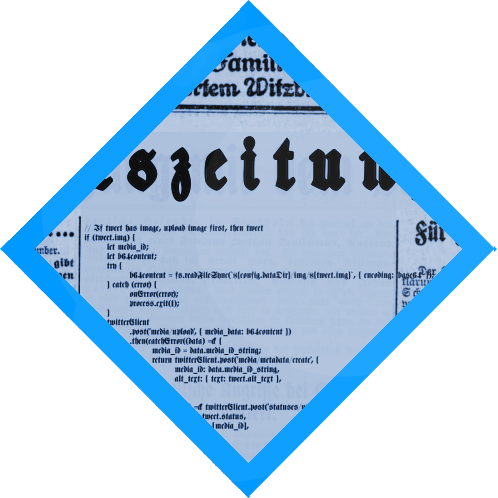
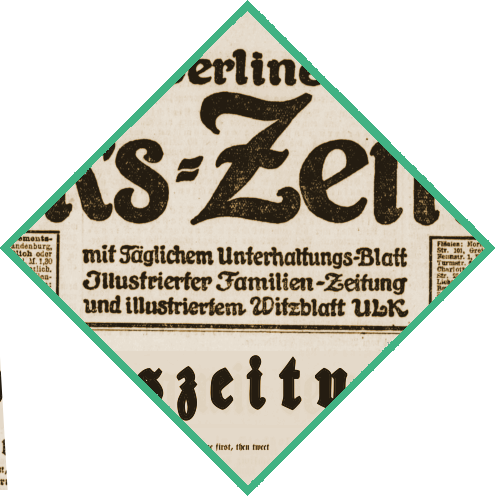
more tiles for Projekte

diff --git a/_projects/2017/altpapier.md b/_projects/2017/altpapier.md
@@ -39,11 +39,16 @@ data:
   - "Staatsbibliothek zu Berlin – Preußischer Kulturbesitz: Berliner Volks-Zeitung (BVZ)"
 team:
   -
+    name: "Team"
+    contact:
+     mail: "mailto:kontakt@altpapier-app.de"
+  -
     name: "Maria Becker"
     contact:
-     mail: "mailto:maria@lilax-solutions.de"
+     mail: "mailto:altpapier@mariabecker.de" 
      twitter: “@meckerbecker”
      github: “https://github.com/mariabecker”
+
   -
     name: "Maike Orlikowski"
     contact:

diff --git a/_projects/2017/haxorpoda.md b/_projects/2017/haxorpoda.md
@@ -4,9 +4,9 @@ layout: project
 year: 2017
 isFirst: false
 "name": "Haxorpoda Collective: “Bug-cruncher”, “Bug-feed”, “wOgus”"
-tile: "/img/projekte-tiles/2017/haxorpode.png"
-tile_active: "/img/projekte-tiles/2017/haxorpode-active.png"
-image: "/img/projekte/haxorpode.jpg"
+tile: "/img/projekte-tiles/2017/haxorpoda.png"
+tile_active: "/img/projekte-tiles/2017/haxorpoda-active.png"
+image: "/img/projekte/haxorpoda.jpg"
 links:
   -
     class: "github"
